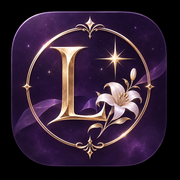
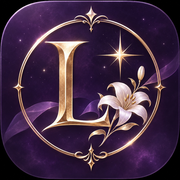
Trim black margins around LUMIÈRE artwork

diff --git a/atelier.html b/atelier.html
@@ -1,5 +1,5 @@
 <!doctype html>
-<html lang="ja"><head><meta charset="utf-8"><meta name="viewport" content="width=device-width,initial-scale=1"><meta name="theme-color" content="#21172e"><meta name="apple-mobile-web-app-capable" content="yes"><meta name="apple-mobile-web-app-status-bar-style" content="default"><meta name="apple-mobile-web-app-title" content="LUMIÈRE"><link rel="apple-touch-icon" sizes="180x180" href="./apple-touch-icon.png"><title>CG Atelier | LUMIÈRE</title>
+<html lang="ja"><head><meta charset="utf-8"><meta name="viewport" content="width=device-width,initial-scale=1"><meta name="theme-color" content="#21172e"><meta name="apple-mobile-web-app-capable" content="yes"><meta name="apple-mobile-web-app-status-bar-style" content="default"><meta name="apple-mobile-web-app-title" content="LUMIÈRE"><link rel="apple-touch-icon" sizes="180x180" href="./apple-touch-icon.png?v=trimmed"><title>CG Atelier | LUMIÈRE</title>
 <style>
 :root{font-family:system-ui,-apple-system,"Noto Sans JP",sans-serif;color:#f7eefb;background:#171020}*{box-sizing:border-box}body{margin:0;background:radial-gradient(ellipse at top,#49345c 0,#21172e 35%,#171020 90%);min-height:100vh}header{text-align:center;padding:42px 15px 26px;border-bottom:1px solid #9b7ca35c}header .moon{color:#d9bd83;font-size:32px}h1{font:normal clamp(34px,9vw,56px) Georgia,serif;letter-spacing:.12em;margin:5px 0;color:#f7eafa}header p{color:#d8c3e8;font-size:13px}small,.muted{color:#c3b1ce}main{max-width:940px;margin:auto;padding:18px 12px 90px}.panel{border:1px solid #ad8db377;background:#30223eeb;border-radius:16px;padding:18px;margin:0 0 16px;box-shadow:0 8px 24px #10091730}h2{font-size:17px;color:#ecd7f7;margin:0 0 14px;font-weight:600}h2 span{color:#d6b87f;margin-right:7px}label{display:block;font-size:13px;color:#e5d7ed;margin:12px 0 6px}input,textarea,select{width:100%;background:#1d1529;color:#fff;border:1px solid #826d91;border-radius:9px;padding:11px;font:inherit;font-size:14px;min-width:0}textarea{min-height:88px;resize:vertical}#parsedOther{min-height:68px;max-height:145px}#parsedDetails textarea{min-height:70px}.import-area{min-height:145px}.import-details{margin-top:14px;border:1px solid #866b98;border-radius:12px;padding:12px;background:#251a34}.import-details summary{cursor:pointer;color:#ead8f3;font-size:14px}.character-editor{margin:0 0 14px;border:1px solid #866b98;border-radius:12px;padding:12px;background:#251a34}.character-editor summary{cursor:pointer;color:#ead8f3;font-size:14px;padding:3px 0}.character-editor[open] summary{margin-bottom:10px}.quick-save{margin-top:14px;padding:13px;border:1px solid #8c719c;border-radius:12px;background:#281d36}.quick-save button{width:100%;margin-top:10px}.import-note{font-size:12px;color:#d7c4e1;line-height:1.65}select{appearance:auto}.cols{display:grid;grid-template-columns:1fr 1fr;gap:12px}.choices{display:grid;grid-template-columns:repeat(3,minmax(0,1fr));gap:8px}.choice{background:#3b2a4b;border:1px solid #775d8b;border-radius:10px;color:#f3e6fa;padding:13px 5px;min-height:53px;font-size:13px;cursor:pointer}.choice.active{border-color:#e7c38c;background:#6b4c84;box-shadow:inset 0 0 0 1px #e7c38c}button{font:inherit;cursor:pointer}button.primary{background:linear-gradient(120deg,#8b6bad,#5d427b);border:1px solid #d6b87f;color:white;border-radius:10px;padding:12px 16px}button.danger{background:#422637;border:1px solid #a8778e;color:#ffe5ee;border-radius:10px;padding:10px 14px}button.secondary{background:#423150;border:1px solid #927b9d;color:white;border-radius:10px;padding:11px 14px}.actions{display:flex;gap:8px;flex-wrap:wrap;margin-top:14px}.actions>*{flex:1}pre{white-space:pre-wrap;overflow-wrap:anywhere;font-size:13px;line-height:1.7;color:#f4e8fb;background:#1a1323;border:1px solid #725b81;border-radius:10px;padding:14px;min-height:85px}footer{text-align:center;font-size:11px;color:#b9a4c6;padding:20px}.note{font-size:12px;color:#d6c3df;line-height:1.7}.library{display:grid;grid-template-columns:repeat(2,minmax(0,1fr));gap:9px;margin-top:12px}.saved-card{display:flex;align-items:center;justify-content:space-between;gap:6px;min-width:0;border:1px solid #826d91;background:#251b32;border-radius:11px;padding:7px}.saved-card.active{border-color:#e7c38c}.saved-name{background:transparent;border:0;color:#f6eafb;text-align:left;flex:1;min-width:0;padding:9px 5px;overflow-wrap:anywhere}.saved-delete{background:transparent;border:0;color:#cbb6d5;padding:7px;font-size:12px}.library-empty{color:#cdbbd6;font-size:13px;grid-column:1/-1}.library-heading{margin-top:16px;color:#e8d5f3;font-size:14px}#status{min-height:20px;color:#e7c38c;font-size:12px;margin-top:8px}@media(max-width:520px){.cols{grid-template-columns:1fr}.panel{padding:14px}.choices{grid-template-columns:repeat(2,minmax(0,1fr))}header{padding-top:30px}.actions>*{min-width:130px}.library{grid-template-columns:1fr 1fr}}
 </style><link rel="stylesheet" href="studio.css?v=lumiere-1"><link rel="icon" type="image/png" sizes="64x64" href="favicon.png"></head><body class="atelier">

diff --git a/library/index.html b/library/index.html
@@ -1,5 +1,5 @@
 <!doctype html>
-<html lang="ja"><head><meta charset="utf-8"><meta name="viewport" content="width=device-width,initial-scale=1,viewport-fit=cover"><meta name="theme-color" content="#171020"><meta name="description" content="創作のひらめきを、美しく収める場所。Lunoの画像生成プロンプトコレクション。"><title>Prompt Library | LUMIÈRE</title><link rel="stylesheet" href="style.css?v=lumiere-1"><link rel="stylesheet" href="../studio.css?v=lumiere-1"><link rel="apple-touch-icon" href="../apple-touch-icon.png"><link rel="icon" type="image/png" sizes="64x64" href="../favicon.png"></head>
+<html lang="ja"><head><meta charset="utf-8"><meta name="viewport" content="width=device-width,initial-scale=1,viewport-fit=cover"><meta name="theme-color" content="#171020"><meta name="description" content="創作のひらめきを、美しく収める場所。Lunoの画像生成プロンプトコレクション。"><title>Prompt Library | LUMIÈRE</title><link rel="stylesheet" href="style.css?v=lumiere-1"><link rel="stylesheet" href="../studio.css?v=lumiere-1"><link rel="apple-touch-icon" href="../apple-touch-icon.png?v=trimmed"><link rel="icon" type="image/png" sizes="64x64" href="../favicon.png"></head>
 <body id="top"><main class="shell"><nav class="studio-nav" aria-label="サイト内ナビゲーション"><a href="../index.html">LUMIÈRE</a><a href="../library/" aria-current="page">LIBRARY</a><a href="../atelier.html">ATELIER</a></nav>
 <section class="hero"><h1 lang="en">Prompt Library</h1><p>7コレクション・111プロンプト</p></section>
 <section id="collections" aria-labelledby="collections-title"><div class="section-heading"><h2 id="collections-title">The Collections</h2></div><div class="collection-grid"><a class="collection-card" href="birthday.html"><div class="visual art-birthday"><div class="collection-type"><span class="type-overline">LUNO / COLLECTION 01</span><span class="type-title">Celebration</span><span class="type-foot">A study in<br>creative expression.</span></div></div><div class="meta"><span class="num">COLLECTION 01<span>10 PROMPTS</span></span><h2>Celebration</h2><p>誕生日・お祝い</p><span class="card-arrow" aria-hidden="true">↗</span></div></a><a class="collection-card" href="weekend.html"><div class="visual art-weekend"><div class="collection-type"><span class="type-overline">LUNO / COLLECTION 02</span><span class="type-title">Weekend</span><span class="type-foot">A study in<br>creative expression.</span></div></div><div class="meta"><span class="num">COLLECTION 02<span>10 PROMPTS</span></span><h2>Weekend</h2><p>休日・カジュアル</p><span class="card-arrow" aria-hidden="true">↗</span></div></a><a class="collection-card" href="seasons.html"><div class="visual art-seasons"><img src="images/season_01_female.jpg" alt="四季の花ドレスのサンプル" loading="lazy" decoding="async"></div><div class="meta"><span class="num">COLLECTION 03<span>04 PROMPTS</span></span><h2>Four Seasons</h2><p>四季の花ドレス</p><span class="card-arrow" aria-hidden="true">↗</span></div></a><a class="collection-card" href="sweets.html"><div class="visual art-sweets"><img src="images/sweet_01_female.jpg" alt="スイーツ衣装のサンプル" loading="lazy" decoding="async"></div><div class="meta"><span class="num">COLLECTION 04<span>36 PROMPTS</span></span><h2>Sweets</h2><p>スイーツ衣装</p><span class="card-arrow" aria-hidden="true">↗</span></div></a><a class="collection-card" href="idol.html"><div class="visual art-idol"><img src="images/idol_01_female.jpg" alt="アイドルの休日と仕事のサンプル" loading="lazy" decoding="async"></div><div class="meta"><span class="num">COLLECTION 05<span>40 PROMPTS</span></span><h2>Behind the Spotlight</h2><p>アイドルの休日と仕事</p><span class="card-arrow" aria-hidden="true">↗</span></div></a><a class="collection-card" href="gothic.html"><div class="visual art-gothic"><div class="collection-type"><span class="type-overline">LUNO / COLLECTION 06</span><span class="type-title">Gothic Succubus</span><span class="type-foot">A study in<br>creative expression.</span></div></div><div class="meta"><span class="num">COLLECTION 06<span>10 PROMPTS</span></span><h2>Gothic Succubus</h2><p>ゴシック×サキュバス</p><span class="card-arrow" aria-hidden="true">↗</span></div></a><a class="collection-card" href="original.html"><div class="visual art-original"><img src="images/original_01_female.jpg" alt="オリジナルキャラクターのサンプル" loading="lazy" decoding="async"></div><div class="meta"><span class="num">COLLECTION 07<span>01 PROMPTS</span></span><h2>Original Characters</h2><p>オリジナルキャラクター</p><span class="card-arrow" aria-hidden="true">↗</span></div></a></div></section><footer class="footer"><a href="index.html">PROMPT LIBRARY</a><span>A place for creative inspiration.</span><a href="#top">BACK TO TOP ↑</a></footer></main></body></html>

diff --git a/index.html b/index.html
@@ -7,14 +7,14 @@
   <meta name="apple-mobile-web-app-title" content="LUMIÈRE">
   <meta name="apple-mobile-web-app-capable" content="yes">
   <title>LUMIÈRE（リュミエール）</title>
-  <link rel="apple-touch-icon" href="apple-touch-icon.png">
+  <link rel="apple-touch-icon" href="apple-touch-icon.png?v=trimmed">
   <link rel="stylesheet" href="studio.css?v=lumiere-1">
 <link rel="icon" type="image/png" sizes="64x64" href="favicon.png"></head>
 <body class="studio-home">
 <nav class="studio-nav" aria-label="サイト内ナビゲーション"><a href="index.html" aria-current="page">LUMIÈRE</a><a href="library/">LIBRARY</a><a href="atelier.html">ATELIER</a></nav>
   <main class="studio-landing">
     <header>
-      <img class="studio-emblem" src="apple-touch-icon.png" alt="" width="84" height="84">
+      <img class="studio-emblem" src="brand-logo.png" alt="" width="84" height="84">
       <h1>LUMIÈRE</h1>
       <p class="studio-subtitle" lang="en">PROMPT LIBRARY &amp; CREATIVE ATELIER</p>
       <p>物語の一瞬に、光を灯す。</p>

diff --git a/library/idol.html b/library/idol.html
@@ -7,7 +7,7 @@
 <meta content="#171020" name="theme-color"/>
 <title>Behind the Spotlight｜アイドルの休日と仕事 | LUMIÈRE</title>
 <link href="style.css?v=lumiere-1" rel="stylesheet"/>
-<link rel="stylesheet" href="../studio.css?v=lumiere-1"><link rel="apple-touch-icon" href="../apple-touch-icon.png"><link rel="icon" type="image/png" sizes="64x64" href="../favicon.png"></head>
+<link rel="stylesheet" href="../studio.css?v=lumiere-1"><link rel="apple-touch-icon" href="../apple-touch-icon.png?v=trimmed"><link rel="icon" type="image/png" sizes="64x64" href="../favicon.png"></head>
 <body id="top">
 <main class="shell">
 <nav class="studio-nav" aria-label="サイト内ナビゲーション"><a href="../index.html">LUMIÈRE</a><a href="../library/" aria-current="page">LIBRARY</a><a href="../atelier.html">ATELIER</a></nav>

diff --git a/library/gothic.html b/library/gothic.html
@@ -6,7 +6,7 @@
 <meta content="#171020" name="theme-color"/>
 <title>Gothic Succubus｜ゴシック×サキュバス | LUMIÈRE</title>
 <link href="style.css?v=lumiere-1" rel="stylesheet"/>
-<link rel="stylesheet" href="../studio.css?v=lumiere-1"><link rel="apple-touch-icon" href="../apple-touch-icon.png"><link rel="icon" type="image/png" sizes="64x64" href="../favicon.png"></head>
+<link rel="stylesheet" href="../studio.css?v=lumiere-1"><link rel="apple-touch-icon" href="../apple-touch-icon.png?v=trimmed"><link rel="icon" type="image/png" sizes="64x64" href="../favicon.png"></head>
 <body id="top">
 <main class="shell">
 <nav class="studio-nav" aria-label="サイト内ナビゲーション"><a href="../index.html">LUMIÈRE</a><a href="../library/" aria-current="page">LIBRARY</a><a href="../atelier.html">ATELIER</a></nav>

diff --git a/library/birthday.html b/library/birthday.html
@@ -6,7 +6,7 @@
 <meta name="theme-color" content="#171020">
 <title>Celebration｜誕生日・お祝い | LUMIÈRE</title>
 <link rel="stylesheet" href="style.css?v=lumiere-1">
-<link rel="stylesheet" href="../studio.css?v=lumiere-1"><link rel="apple-touch-icon" href="../apple-touch-icon.png"><link rel="icon" type="image/png" sizes="64x64" href="../favicon.png"></head>
+<link rel="stylesheet" href="../studio.css?v=lumiere-1"><link rel="apple-touch-icon" href="../apple-touch-icon.png?v=trimmed"><link rel="icon" type="image/png" sizes="64x64" href="../favicon.png"></head>
 <body id="top">
 <main class="shell">
 <nav class="studio-nav" aria-label="サイト内ナビゲーション"><a href="../index.html">LUMIÈRE</a><a href="../library/" aria-current="page">LIBRARY</a><a href="../atelier.html">ATELIER</a></nav>

diff --git a/library/original.html b/library/original.html
@@ -6,7 +6,7 @@
 <meta name="theme-color" content="#171020">
 <title>オリジナルキャラクター | LUMIÈRE</title>
 <link rel="stylesheet" href="style.css?v=lumiere-1">
-<link rel="stylesheet" href="../studio.css?v=lumiere-1"><link rel="apple-touch-icon" href="../apple-touch-icon.png"><link rel="icon" type="image/png" sizes="64x64" href="../favicon.png"></head>
+<link rel="stylesheet" href="../studio.css?v=lumiere-1"><link rel="apple-touch-icon" href="../apple-touch-icon.png?v=trimmed"><link rel="icon" type="image/png" sizes="64x64" href="../favicon.png"></head>
 <body id="top">
 <main class="shell">
 <nav class="studio-nav" aria-label="サイト内ナビゲーション"><a href="../index.html">LUMIÈRE</a><a href="../library/" aria-current="page">LIBRARY</a><a href="../atelier.html">ATELIER</a></nav>

diff --git a/library/weekend.html b/library/weekend.html
@@ -6,7 +6,7 @@
 <meta name="theme-color" content="#171020">
 <title>休日・カジュアル | LUMIÈRE</title>
 <link rel="stylesheet" href="style.css?v=lumiere-1">
-<link rel="stylesheet" href="../studio.css?v=lumiere-1"><link rel="apple-touch-icon" href="../apple-touch-icon.png"><link rel="icon" type="image/png" sizes="64x64" href="../favicon.png"></head>
+<link rel="stylesheet" href="../studio.css?v=lumiere-1"><link rel="apple-touch-icon" href="../apple-touch-icon.png?v=trimmed"><link rel="icon" type="image/png" sizes="64x64" href="../favicon.png"></head>
 <body id="top">
 <main class="shell">
 <nav class="studio-nav" aria-label="サイト内ナビゲーション"><a href="../index.html">LUMIÈRE</a><a href="../library/" aria-current="page">LIBRARY</a><a href="../atelier.html">ATELIER</a></nav>

diff --git a/library/seasons.html b/library/seasons.html
@@ -6,7 +6,7 @@
 <meta name="theme-color" content="#171020">
 <title>四季の花ドレス | LUMIÈRE</title>
 <link rel="stylesheet" href="style.css?v=lumiere-1">
-<link rel="stylesheet" href="../studio.css?v=lumiere-1"><link rel="apple-touch-icon" href="../apple-touch-icon.png"><link rel="icon" type="image/png" sizes="64x64" href="../favicon.png"></head>
+<link rel="stylesheet" href="../studio.css?v=lumiere-1"><link rel="apple-touch-icon" href="../apple-touch-icon.png?v=trimmed"><link rel="icon" type="image/png" sizes="64x64" href="../favicon.png"></head>
 <body id="top">
 <main class="shell">
 <nav class="studio-nav" aria-label="サイト内ナビゲーション"><a href="../index.html">LUMIÈRE</a><a href="../library/" aria-current="page">LIBRARY</a><a href="../atelier.html">ATELIER</a></nav>

diff --git a/library/sweets.html b/library/sweets.html
@@ -7,7 +7,7 @@
 <meta content="#171020" name="theme-color"/>
 <title>スイーツ衣装 | LUMIÈRE</title>
 <link href="style.css?v=lumiere-1" rel="stylesheet"/>
-<link rel="stylesheet" href="../studio.css?v=lumiere-1"><link rel="apple-touch-icon" href="../apple-touch-icon.png"><link rel="icon" type="image/png" sizes="64x64" href="../favicon.png"></head>
+<link rel="stylesheet" href="../studio.css?v=lumiere-1"><link rel="apple-touch-icon" href="../apple-touch-icon.png?v=trimmed"><link rel="icon" type="image/png" sizes="64x64" href="../favicon.png"></head>
 <body id="top">
 <main class="shell">
 <nav class="studio-nav" aria-label="サイト内ナビゲーション"><a href="../index.html">LUMIÈRE</a><a href="../library/" aria-current="page">LIBRARY</a><a href="../atelier.html">ATELIER</a></nav>
